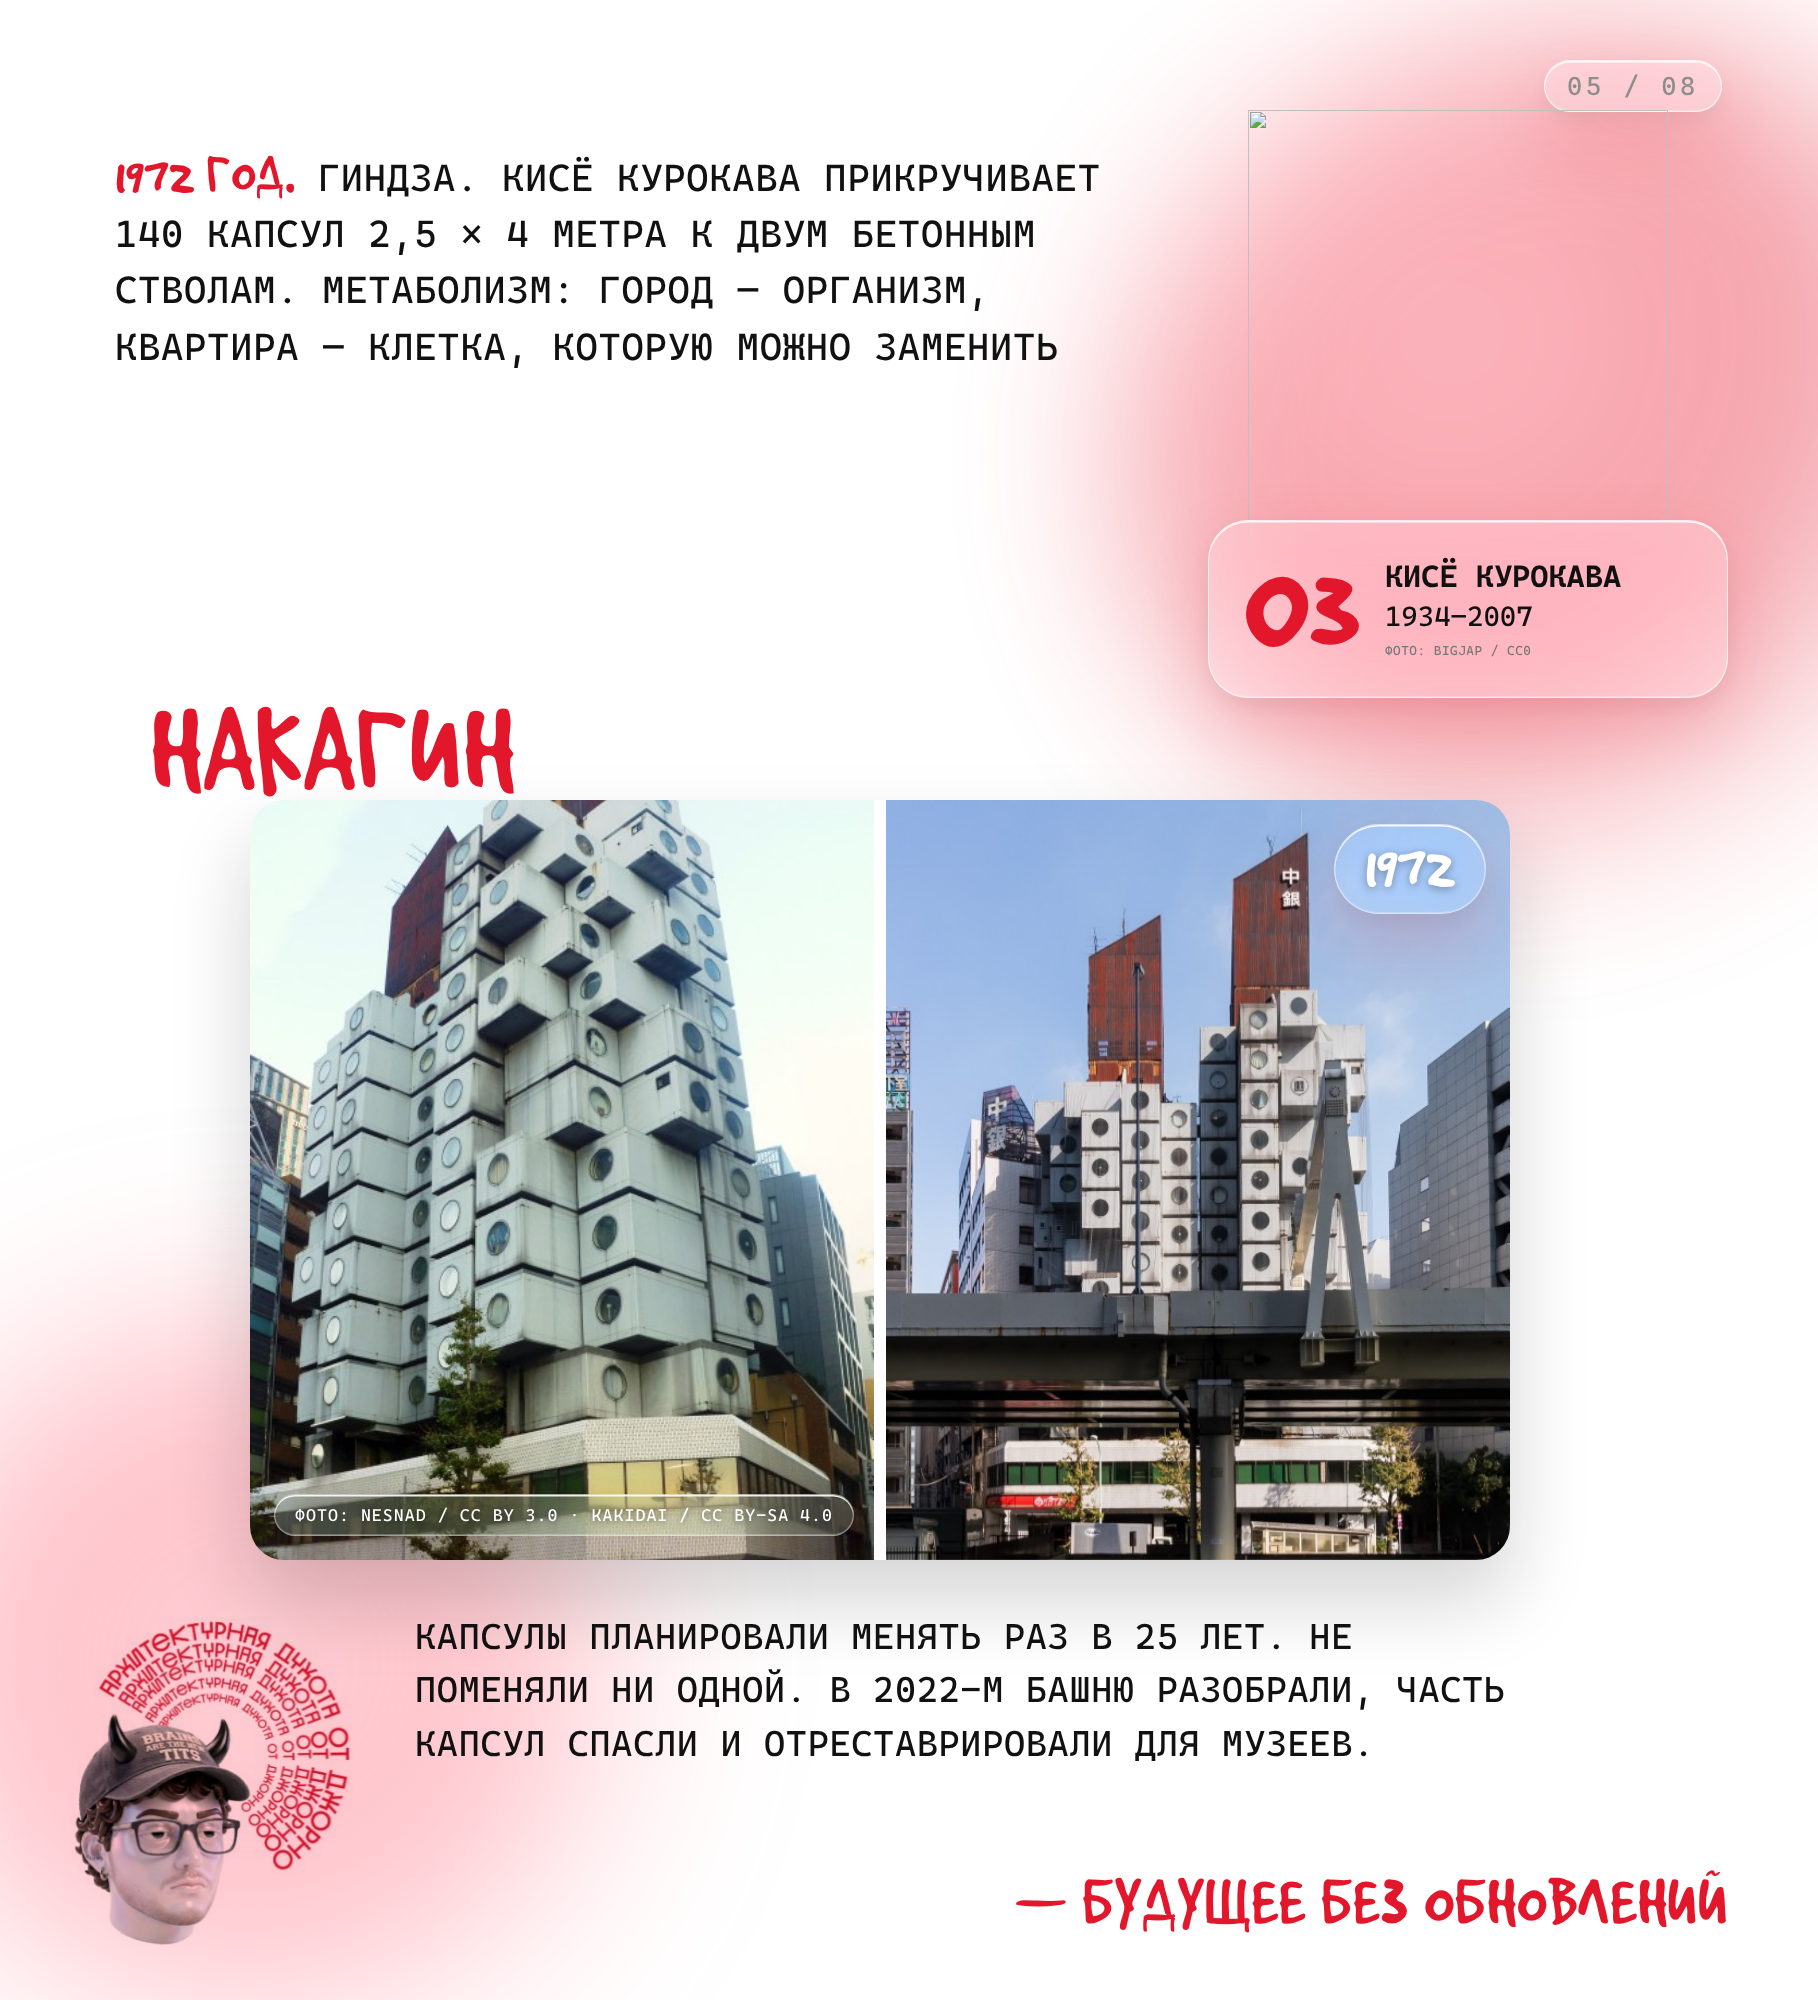
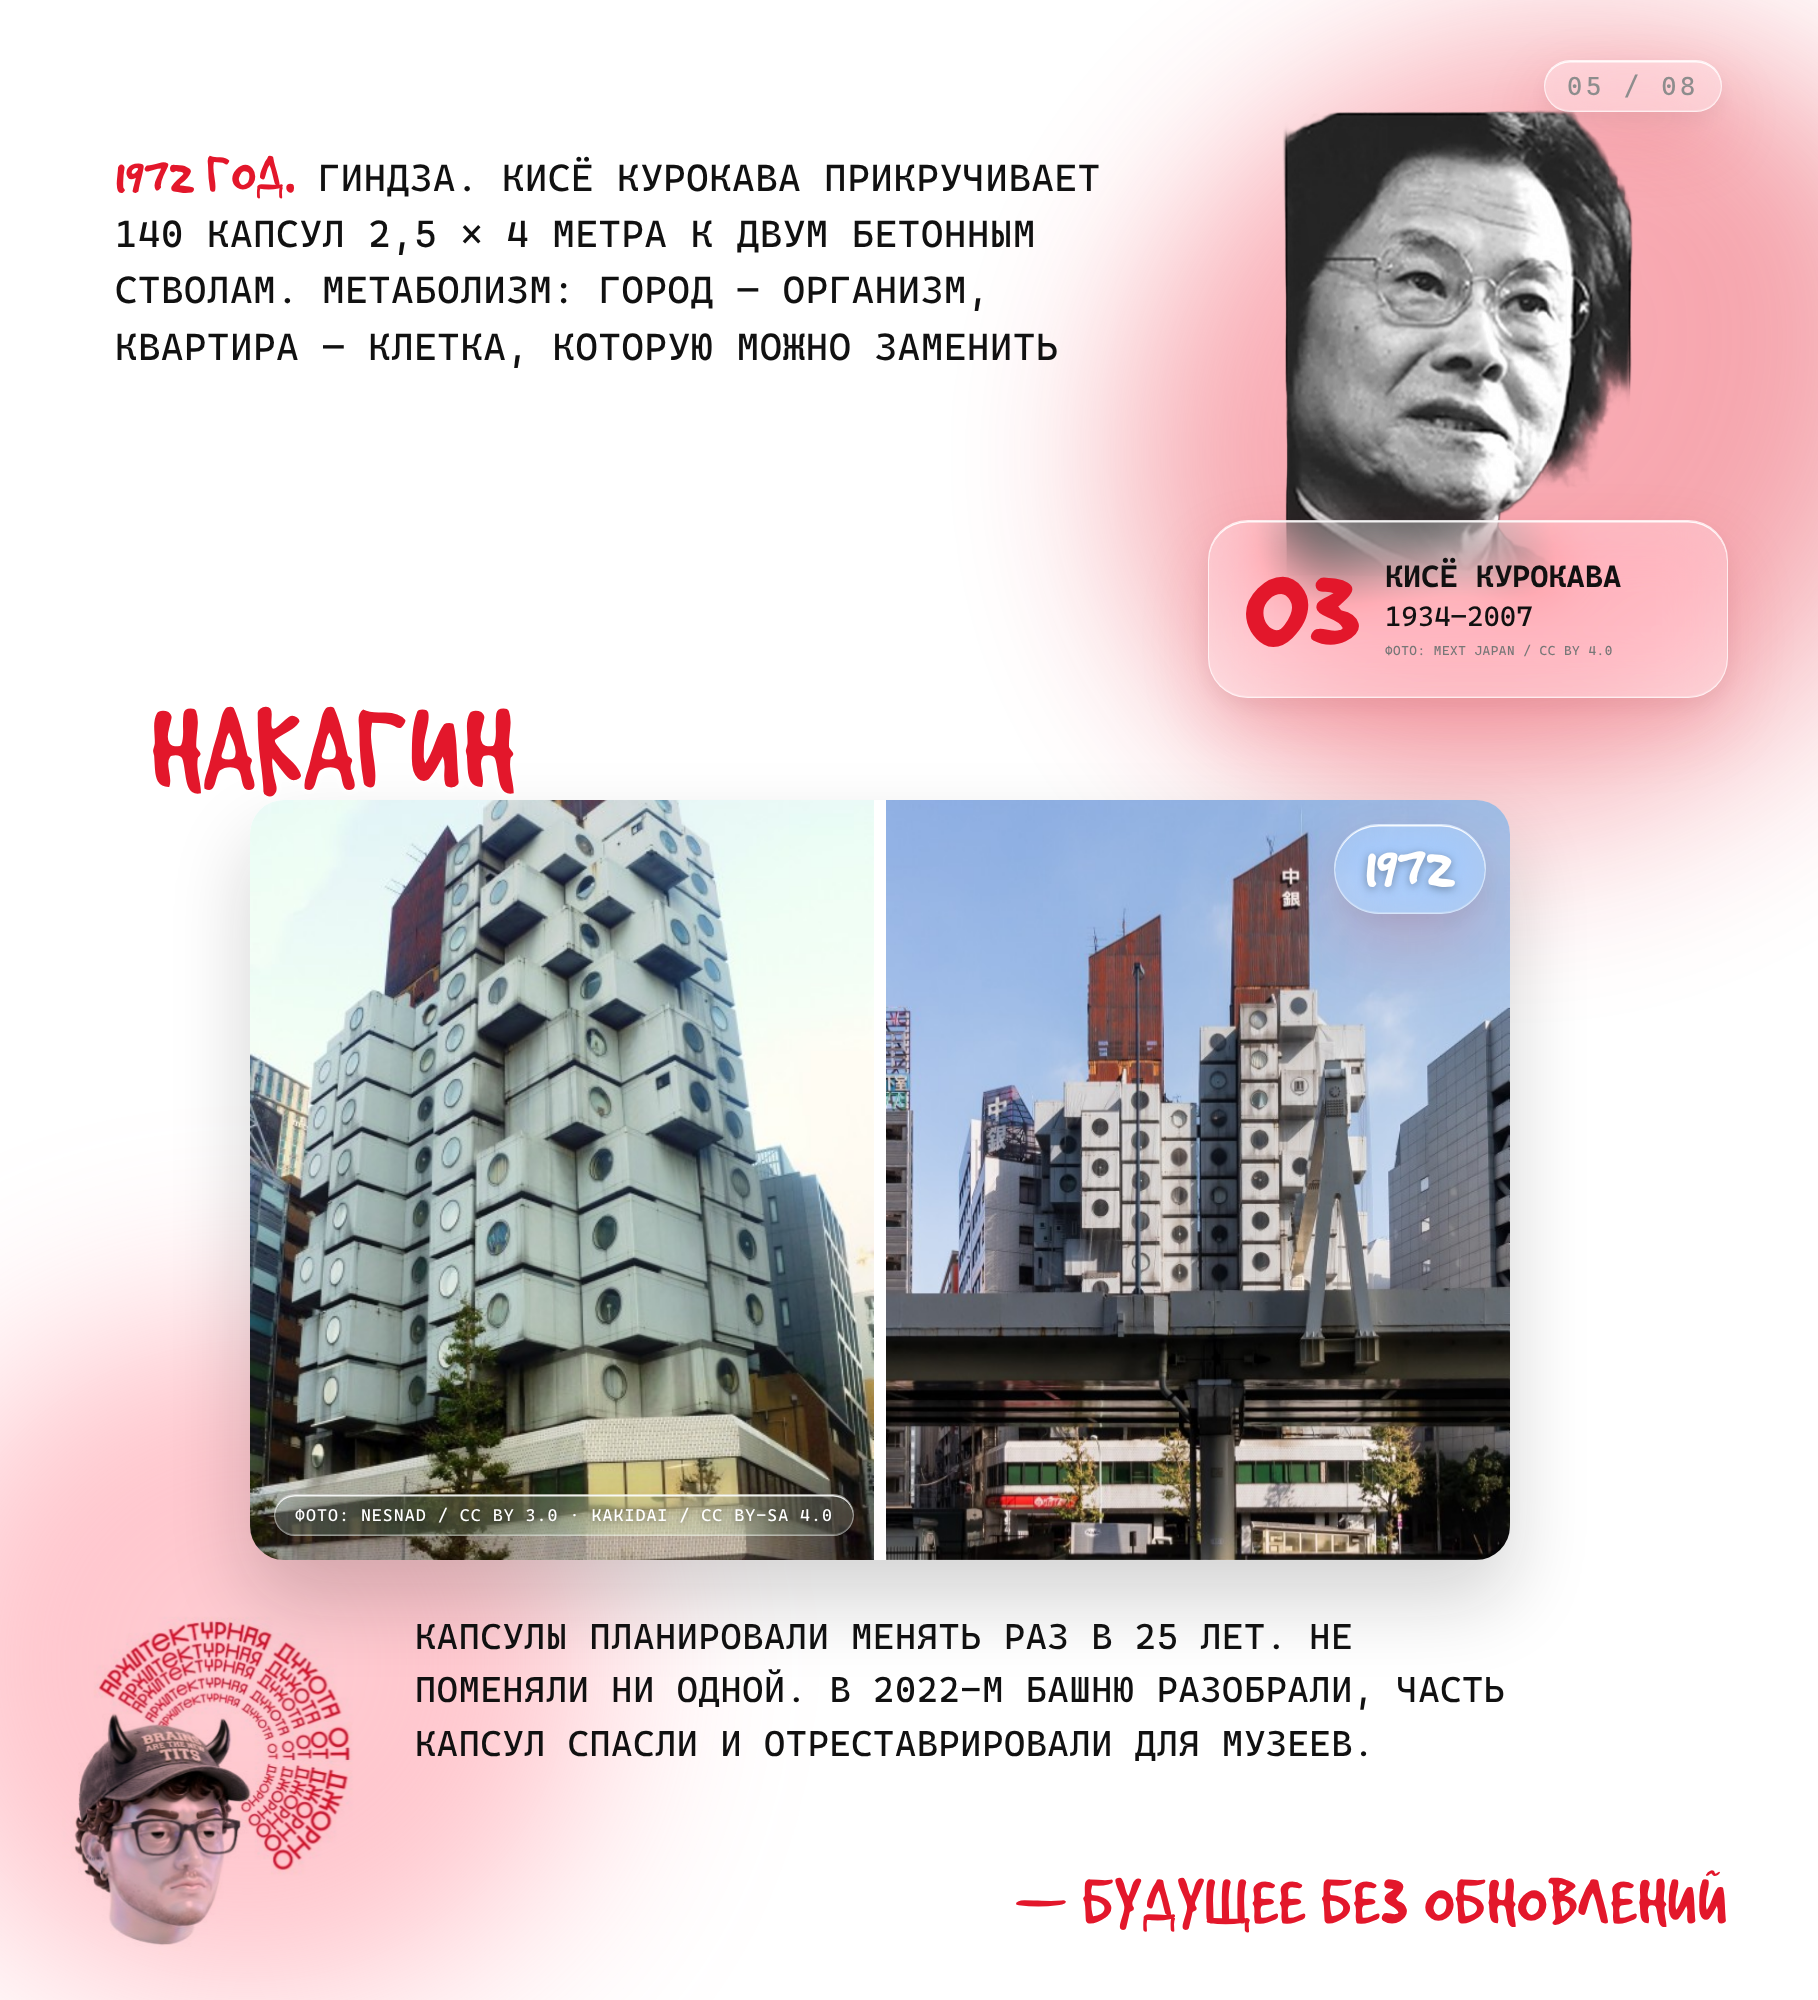
Carousel v2: Kurokawa portrait, MP4 motion versions of all slides
Claude-Session: https://claude.ai/code/session_01P3H123YjJAsg9f2r9Q6Sv8

Changed region(s): [[0.6777, 0.031, 0.9241, 0.31]]

diff --git a/carousel/japan-architects/assets/photos/credits.js b/carousel/japan-architects/assets/photos/credits.js
@@ -8,7 +8,7 @@ window.CREDITS = {
   "grand-ring":      "BEA PHI / CC BY-SA 4.0",
   "tatsuno":         "NDL JAPAN / PUBLIC DOMAIN",
   "tange":           "HANS VAN DIJK / ANEFO / CC BY-SA 3.0 NL",
-  "kurokawa":        "BIGJAP / CC0",
+  "kurokawa":        "MEXT JAPAN / CC BY 4.0",
   "ando":            "CHRISTOPHER SCHRINER / CC BY-SA 2.0",
   "fujimoto":        "J.TOBIAS / CC BY 2.0"
 };

diff --git a/carousel/japan-architects/STRUCTURE.md b/carousel/japan-architects/STRUCTURE.md
@@ -12,8 +12,10 @@
 
 ## Визуальная система
 - Фон: чистый белый. Акцент: красный `#E3172B`. Текст: `#111`.
-- Заголовки и реплики: рукописный маркер капсом (в этой сборке — Neucha с обводкой, как замена фирменного шрифта).
-- Основной текст: моноширинный капс JetBrains Mono, межбуквенный +3%.
+- Заголовки и реплики: GoodDog капсом (`assets/fonts/GoodDogCyr.ttf` — кириллица дособрана из латинских глифов GoodDog скриптом `build_gd_cyr.py`).
+- Основной текст: Cascadia Code капсом, жирный — для имён.
+- Графика и плашки — glassmorphism: полупрозрачное стекло (blur 30px, белая кромка, блик) поверх размытых красных пятен.
+- Motion: появление из размытия по очереди, медленный наезд на фото, блик по стеклу, дрейф пятен. 6 с, MP4 1080×1188 (`node render.js --video`).
 - Лого-голова Джорно — на каждом слайде, слева внизу. Голова Vesper — только в финальном диалоге.
 - Каждый слайд заканчивается самоироничной красной репликой (как «— НО ПОЧЕМУ Я НЕ ВСТУПИЛ В ДИАЛОГ?»).
 
